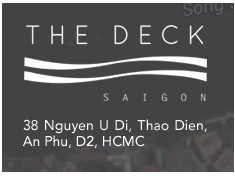
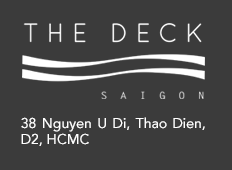
update

diff --git a/SourceDD/Guline.Web.One/AppTheDeck/views/event/event.html b/SourceDD/Guline.Web.One/AppTheDeck/views/event/event.html
@@ -10,20 +10,19 @@
                     <p class="page-title">PLAN YOUR EVENT</p>
                     <p class="p-top-10">
                         <h5>DESIGN</h5>
-                        We realise that it isn’t just food and drink that make the perfect party. Whilst we can ensure that side of things always exceeds your expectations, we like to work with the very best suppliers and products elsewhere too, so that everything runs as smoothly as the food, from flowers to song, from candle to cushion, from curtain up to curtain down - we like to create the utterly extraordinary.
-
+                        We realise that it isn’t just food and drinks that make the perfect party. Whilst we can ensure that side of things always exceeds your expectations, we like to work with the very best suppliers and products elsewhere too, so that everything runs as smoothly as the food, from flowers to music, from candle to cushion, from curtain up to curtain down - we like to create the utterly extraordinary.
                     </p>
                     <p>
                         <h5>CORPORATE</h5>
-                        What makes us different is the location and 5 star service. There are many hotels in Saigon boasting good corporate facilities but none of them can claim a grade A service right on the banks of Saigon River. With both indoor and outdoor facilities, we can cater to both daytime events inside cool chic lounges, and outdoor evening events under the stars.
+                        What makes our friendly service different is the location and 5 star service. There are many hotels in Saigon boasting good corporate facilities but none of them can claim a grade A service right on the banks of Saigon River. With both indoor and outdoor facilities, we can cater to both daytime events inside cool chic lounges, and outdoor evening events under the stars.
                     </p>
                     <p>
                         <h5>LOCATION VENUE</h5>
-                        We have the perfect location for your press events, product launches, fashion shows and film shoots only minutes from the heart of Saigon. With unbeatable natural light enhanced by the Saigon River, beautifully gardens and top class food, we have the perfect combination of nature and cosmopolitan life all in one place. And all of this with one of Asia's most beautiful rivers as a backdrop.
+                        We have the perfect location for your press events, product launches, fashion shows and film shoots only minutes from the heart of Saigon. With unbeatable natural light enhanced by the Saigon River, beautiful garden and top class food, we have the perfect combination of nature and cosmopolitan life all in one place. And all of this with one of Asia's most stunning rivers as a backdrop.
                     </p>
                     <p>
                         <h5>PRIVATE EVENTS AT THE DECK</h5>
-                        The Deck is able to offer its beautiful setting for a limited number of private events. The restaurant can accommodate 150 guests for lunch and dinner functions and up to 300 for cocktails.  With The Saigon River at your feet and open air garden with private bar create a beautiful setting for corporate or private functions.
+                        The Deck is able to offer its beautiful setting for a limited number of private events. The restaurant can accommodate 150 guests for lunch and dinner functions and up to 300 for drink receptions. With The Saigon River at your feet and open-air garden with private bar, create a beautiful setting for corporate or private functions.
 
                     </p>
                     <p>

diff --git a/SourceDD/Guline.Web.One/AppTheDeck/app.js b/SourceDD/Guline.Web.One/AppTheDeck/app.js
@@ -260,12 +260,12 @@ app.run(['$rootScope', '$state', '$stateParams',
                          $timeout(init);
                          function init() {
                              var tl = new TimelineMax();
-                             tl.from('.vtop', .4, { x: 0, y: -80 }, { x: 0, y: 0, scaleX: 1, scaleY: 1, ease: Power0.easeOut, delay: 1 });
-                             tl.from('.gNav', .4, { x: 0, y: 150 }, { x: 0, y: 0, scaleX: 1, scaleY: 1, ease: Power0.easeOut });
-                             //tl.from('.vtop .logo', .4, { autoAlpha: 0, y: -20, ease: Back.easeOut });
-                             //tl.from('.vtop .sub-nav', .4, { autoAlpha: 0, y: -20, ease: Back.easeOut });
-                             //tl.from('.vtop .main-nav', .4, { autoAlpha: 0, y: 0, ease: Back.easeOut });
-                             tl.from('.home-content', .4, { autoAlpha: 0, y: 0, ease: Back.easeOut });
+                             tl.from('.vtop', 1, { x: 0, y: -80 }, { x: 0, y: 0, scaleX: 1, scaleY: 1, ease: Power0.easeOut, delay: 1 });
+                             tl.from('.gNav', 1, { x: 0, y: 150 }, { x: 0, y: 0, scaleX: 1, scaleY: 1, ease: Power0.easeOut });
+                             tl.from('.vtop .logo, .vtop .sub-nav, .vtop .main-nav, .home-content', 0.8, { autoAlpha: 0, y: 0, ease: Back.easeOut });
+                             //tl.from('.vtop .sub-nav', 0, { autoAlpha: 0, y: -20, ease: Back.easeOut });
+                             //tl.from('.vtop .main-nav', 0, { autoAlpha: 0, y: 0, ease: Back.easeOut });
+                             //tl.from('.home-content', 0, { autoAlpha: 0, y: 0, ease: Back.easeOut });
 
 
                              var delayTransition = 5000;
@@ -612,11 +612,11 @@ app.run(['$rootScope', '$state', '$stateParams',
                              iwOuter.parent().parent().css({ top: '50px' });
                              iwBackground.children(':nth-child(3)').attr('style', function (i, s) { return s + 'display: none !important;' });
 
+                             iwOuter.next().css({ "top": "12px", "right": "40px" });
                          });
                          google.maps.event.addListener(marker, 'click', function () {
 
                              infowindow.open(map, marker);
-
                          });
                      }
                  }]

diff --git a/SourceDD/Guline.Web.One/AppTheDeck/views/ourstory/about.html b/SourceDD/Guline.Web.One/AppTheDeck/views/ourstory/about.html
@@ -9,14 +9,12 @@
 
                 <div class="col-md-12 p-left-0 p-right-0 about-content">
                     <p class="">
-                        The Deck is situated on the banks of the Saigon River, a short 15 minutes journey from the heart of Ho Chi Minh City. It is the city’s most modern Pan Asian cuisine where friendships, romance and fine food comes together. Once you’ve been greeted by a smile, share the sunset, unwind with a signature cocktail and enjoy the contemporary experience it will be hard for you depart.
+                        The Deck is situated on the bank of the Saigon River, a short 15 minute journey from the heart of Ho Chi Minh City. It is the city’s most modern Pan Asian cuisine where friendships, romance and fine food comes together. Once you’ve been greeted by a smile, share the sunset, unwind with a signature cocktail and enjoy the contemporary experience. It will be hard for you to depart.
                     </p>
 
                 </div>
             </div>
-            <div class="col-md-12 p-left-0">
-                <p class="page-title">OUR MISSION</p>
-
+            <div class="col-md-12 p-left-0 p-top-20">
                 <div class="col-md-12 p-left-0 p-right-0 about-content about-line">
                     <p class="">
                         &ldquo; A sharing contemporary Pan Asian experience by the river on The Deck &rdquo;

diff --git a/SourceDD/Guline.Web.One/AppTheDeck/gNav.html b/SourceDD/Guline.Web.One/AppTheDeck/gNav.html
@@ -4,15 +4,14 @@
     <div class="container">
         <div class="col-md-3 info ">
             <p>
-                38 Nguyen U Di St., Thao Dien, An Phu
+                38 Nguyen U Di St., Thao Dien
                 <br />
                 District 2, Ho Chi Minh City
                 <br />
             </p><p>
-                T +84 (0) 8 3744 6632
-                <br />
-                E info@thedecksaigon.com
-
+                T +84 (0) 8 3744 6632<br />
+                E <a ui-sref="main.home.contact">info@thedecksaigon.com</a><br />
+                <a ui-sref="main.home.location">Direction</a>
             </p>
         </div>
         <div class="col-md-6">
@@ -28,11 +27,11 @@
                     </li>
                 </ul>
             </div>
-           
+
         </div>
         <div class="col-md-offset-1 col-md-2 reg-frm p-0">
             <div class="input-group pull-right">
-                <input ng-model="revice_news" type="email" class="form-control" placeholder="Newsletter supcription" />
+                <input ng-model="revice_news" type="email" class="form-control" placeholder="Newsletter subscription" />
                 <a class="btn input-group-addon"></a>
             </div>
         </div>

diff --git a/SourceDD/Guline.Web.One/AppTheDeck/vTop.html b/SourceDD/Guline.Web.One/AppTheDeck/vTop.html
@@ -23,9 +23,9 @@
                     <li ng-class="activeNav('main.home.ourstory')"><a  class="cmn-t-underline" ui-sref="main.home.ourstory">Our Story</a></li>
                     <li ng-class="activeNav('main.home.menu')"><a class="cmn-t-underline" ui-sref="main.home.menu">Menu</a></li>
                     <li ng-class="activeNav('main.home.thedeckbar')"><a class="cmn-t-underline" ui-sref="main.home.thedeckbar">The deck bar</a></li>
-                    <li ng-class="activeNav('main.home.event')"><a class="cmn-t-underline" ui-sref="main.home.event">Event & Catering</a></li>
+                    <li ng-class="activeNav('main.home.event')"><a class="cmn-t-underline" ui-sref="main.home.event">Events & Catering</a></li>
                     <li ng-class="activeNav('main.home.photo')"><a class="cmn-t-underline" ui-sref="main.home.photo">Gallery</a></li>
-                    <li ng-class="activeNav('main.home.martini_club')"><a class="cmn-t-underline" ui-sref="main.home.martini_club">The matini club</a></li>
+                    <li ng-class="activeNav('main.home.martini_club')"><a class="cmn-t-underline" ui-sref="main.home.martini_club">The martini club</a></li>
                 </ul>
             </div>
         </div>

diff --git a/SourceDD/Guline.Web.One/AppTheDeck/views/martiniclub/martiniclub.html b/SourceDD/Guline.Web.One/AppTheDeck/views/martiniclub/martiniclub.html
@@ -5,7 +5,7 @@
     <div class="col-md-12 martini-box">
         <div class="col-md-6">
             <p class="page-title">MARTINI CLUB MEMBERSHIP</p>
-            <p>The Martini Club is situated on the banks of the Saigon River 15 minutes from the heart of Ho Chi Minh City. It is one of the city's most elegant rendezvous and the only restaurant to offer relaxed, riverside, open-air dining. Come and enjoy breakfast, lunch or brunch, or an intimate dinner on the large outdoor wooden deck, with cocktails in between and after, and enjoy our creative contemporary fusion cuisine.</p>
+            <p>The Martini Club is situated on the banks of the Saigon River, 15 minutes from the heart of Ho Chi Minh City. It is one of the city's most elegant rendez-vous and the only restaurant to offer relaxed, riverside, open-air dining. Come and enjoy breakfast, lunch or brunch, or an intimate dinner on the large outdoor wooden deck, with cocktails in between and after, and enjoy our creative contemporary fusion cuisine.</p>
             <p>Whether meeting friends, chilling out for sunset cocktails by the water, or enjoying a romantic dinner, it is always difficult to leave.</p>
         </div>
         <div class="col-md-6">

diff --git a/SourceDD/Guline.Web.One/AppTheDeck/views/photo/photo.html b/SourceDD/Guline.Web.One/AppTheDeck/views/photo/photo.html
@@ -22,7 +22,7 @@
     <li><img src="/Images/gallery/thumb_IMG_1645.jpg" alt="" data-large-src="/Images/gallery/IMG_1645.JPG"></li>
     <li><img src="/Images/gallery/thumb_IMG_1756.jpg" alt="" data-large-src="/Images/gallery/IMG_1756.JPG"></li>
     <li><img src="/Images/gallery/thumb_IMG_2158.jpg" alt="" data-large-src="/Images/gallery/IMG_2158.JPG"></li>
-    <li><img src="/Images/gallery/thumb_IMG_2196.jpg" alt="" data-large-src="/Images/gallery/IMG_2196.JPG"></li>
+    <!--<li><img src="/Images/gallery/thumb_IMG_2196.jpg" alt="" data-large-src="/Images/gallery/IMG_2196.JPG"></li>-->
     <li><img src="/Images/gallery/thumb_IMG_2216.jpg" alt="" data-large-src="/Images/gallery/IMG_2216.JPG"></li>
     <li><img src="/Images/gallery/thumb_IMG_2252.jpg" alt="" data-large-src="/Images/gallery/IMG_2252.JPG"></li>
 </ul>

diff --git a/SourceDD/Guline.Web.One/AppTheDeck/views/contactus/contact.html b/SourceDD/Guline.Web.One/AppTheDeck/views/contactus/contact.html
@@ -9,7 +9,7 @@
             <div class="col-md-12 p-left-0 p-right-0 contact-content">
                 <div class="col-md-4 p-left-0">
                     <p>
-                        38 Nguyen U Di St., Thao Dien, An Phu
+                        38 Nguyen U Di St., Thao Dien
                         <br />
                         District 2, Ho Chi Minh City
                         <br />

diff --git a/SourceDD/Guline.Web.One/AppTheDeck/views/home/home.html b/SourceDD/Guline.Web.One/AppTheDeck/views/home/home.html
@@ -6,7 +6,7 @@
 <div id="slider_home">
     <img src="/Images/background.jpg" class="current"/>
     <img src="/Images/homepage_bg1.jpg"/>
-    <img src="/Images/homepage_bg2.jpg"/>
+    <img src="/Images/gallery/IMG_2196.JPG" />
 
     <div id="slider_button">
         <span class="current"></span>

diff --git a/SourceDD/Guline.Web.One/AppTheDeck/css/styles.css b/SourceDD/Guline.Web.One/AppTheDeck/css/styles.css
@@ -542,6 +542,9 @@ body {
     font-size:12px;
     letter-spacing:1px;
 }
+#page_wrapper.white .nav-footer .container{
+    color: #fff!important;
+}
 /*End gFooter*/
 
 /*Custom Slider*/
